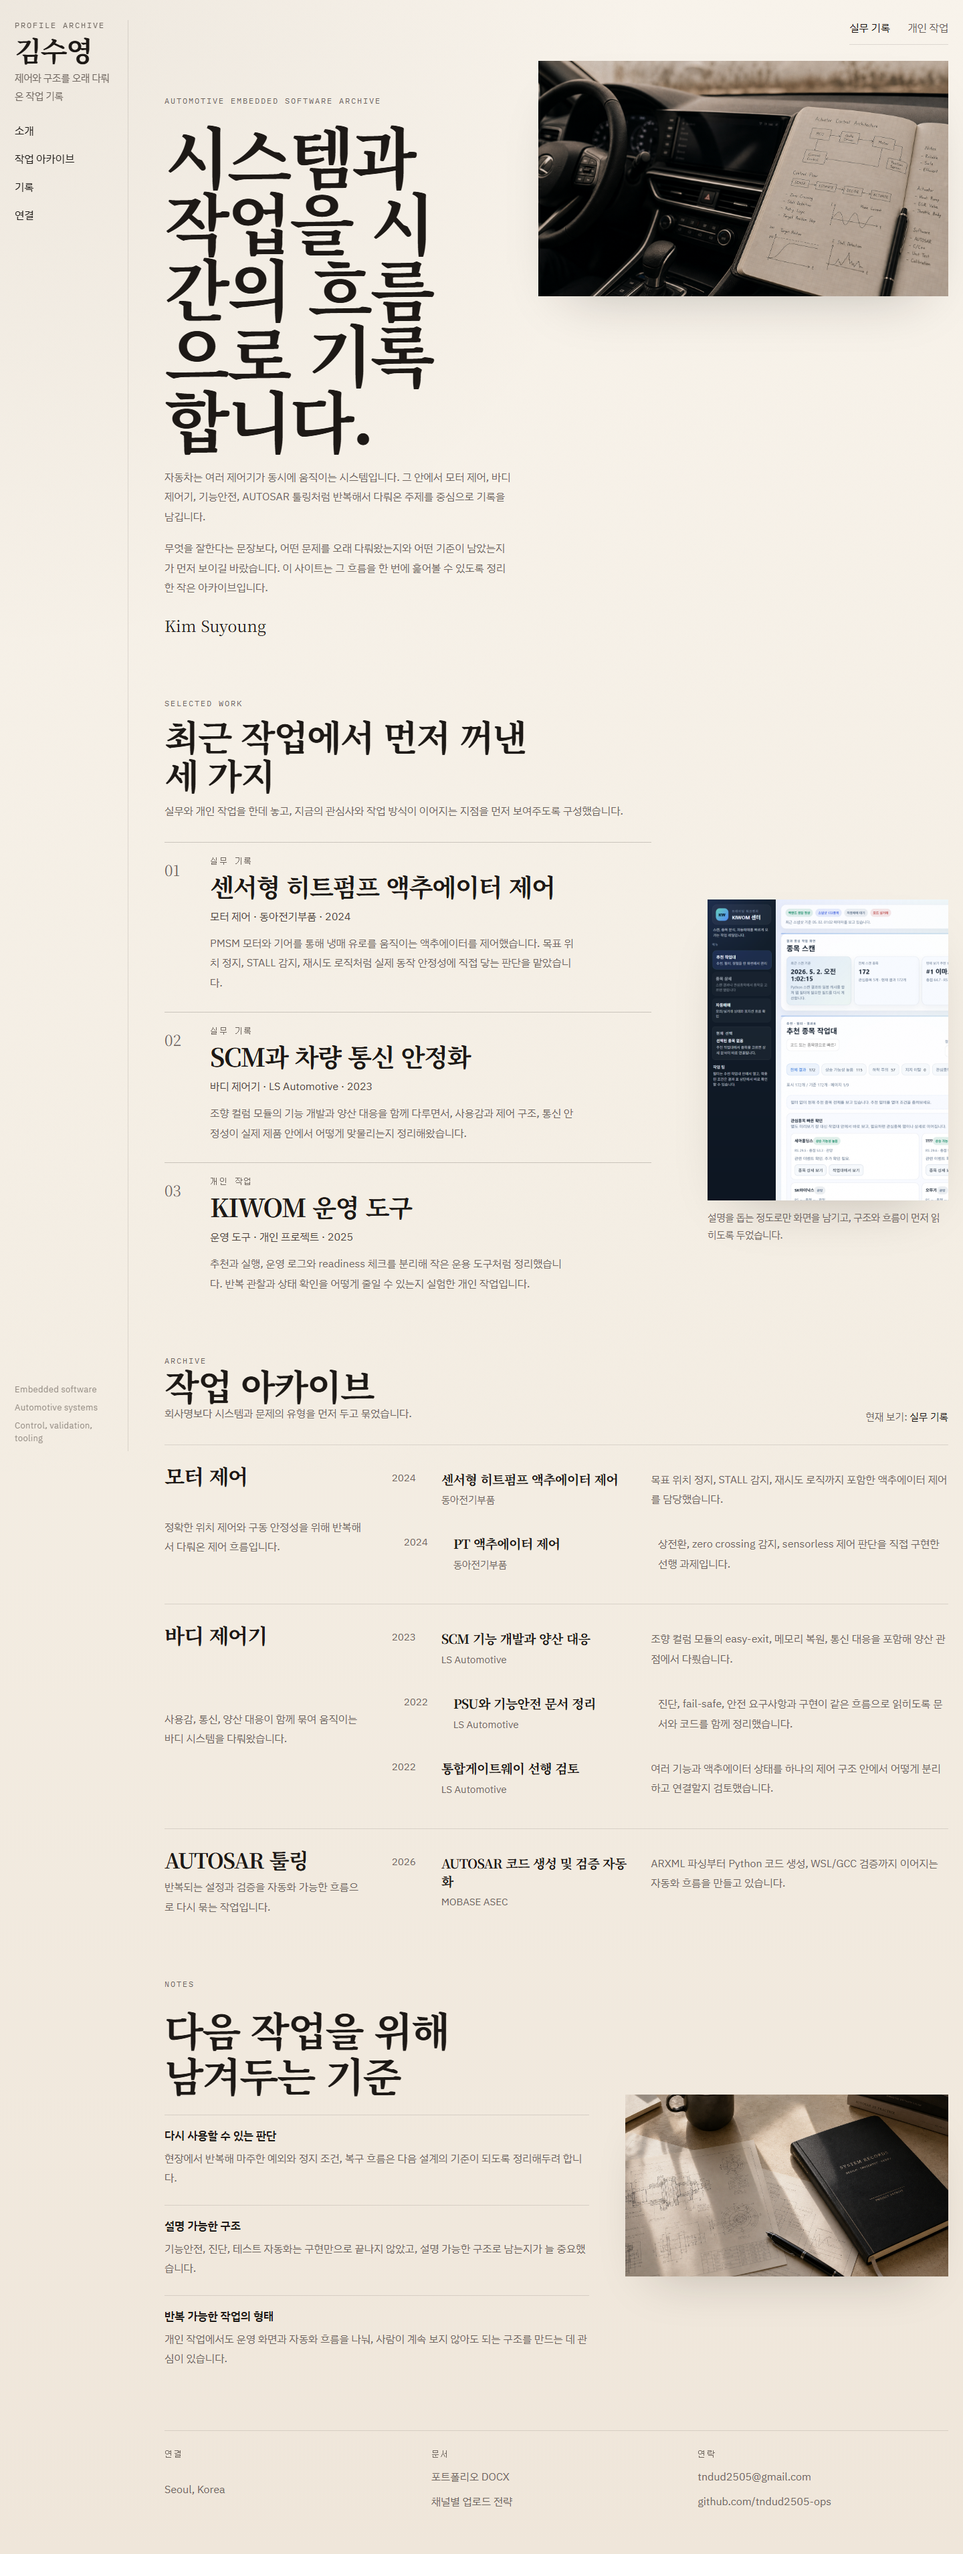
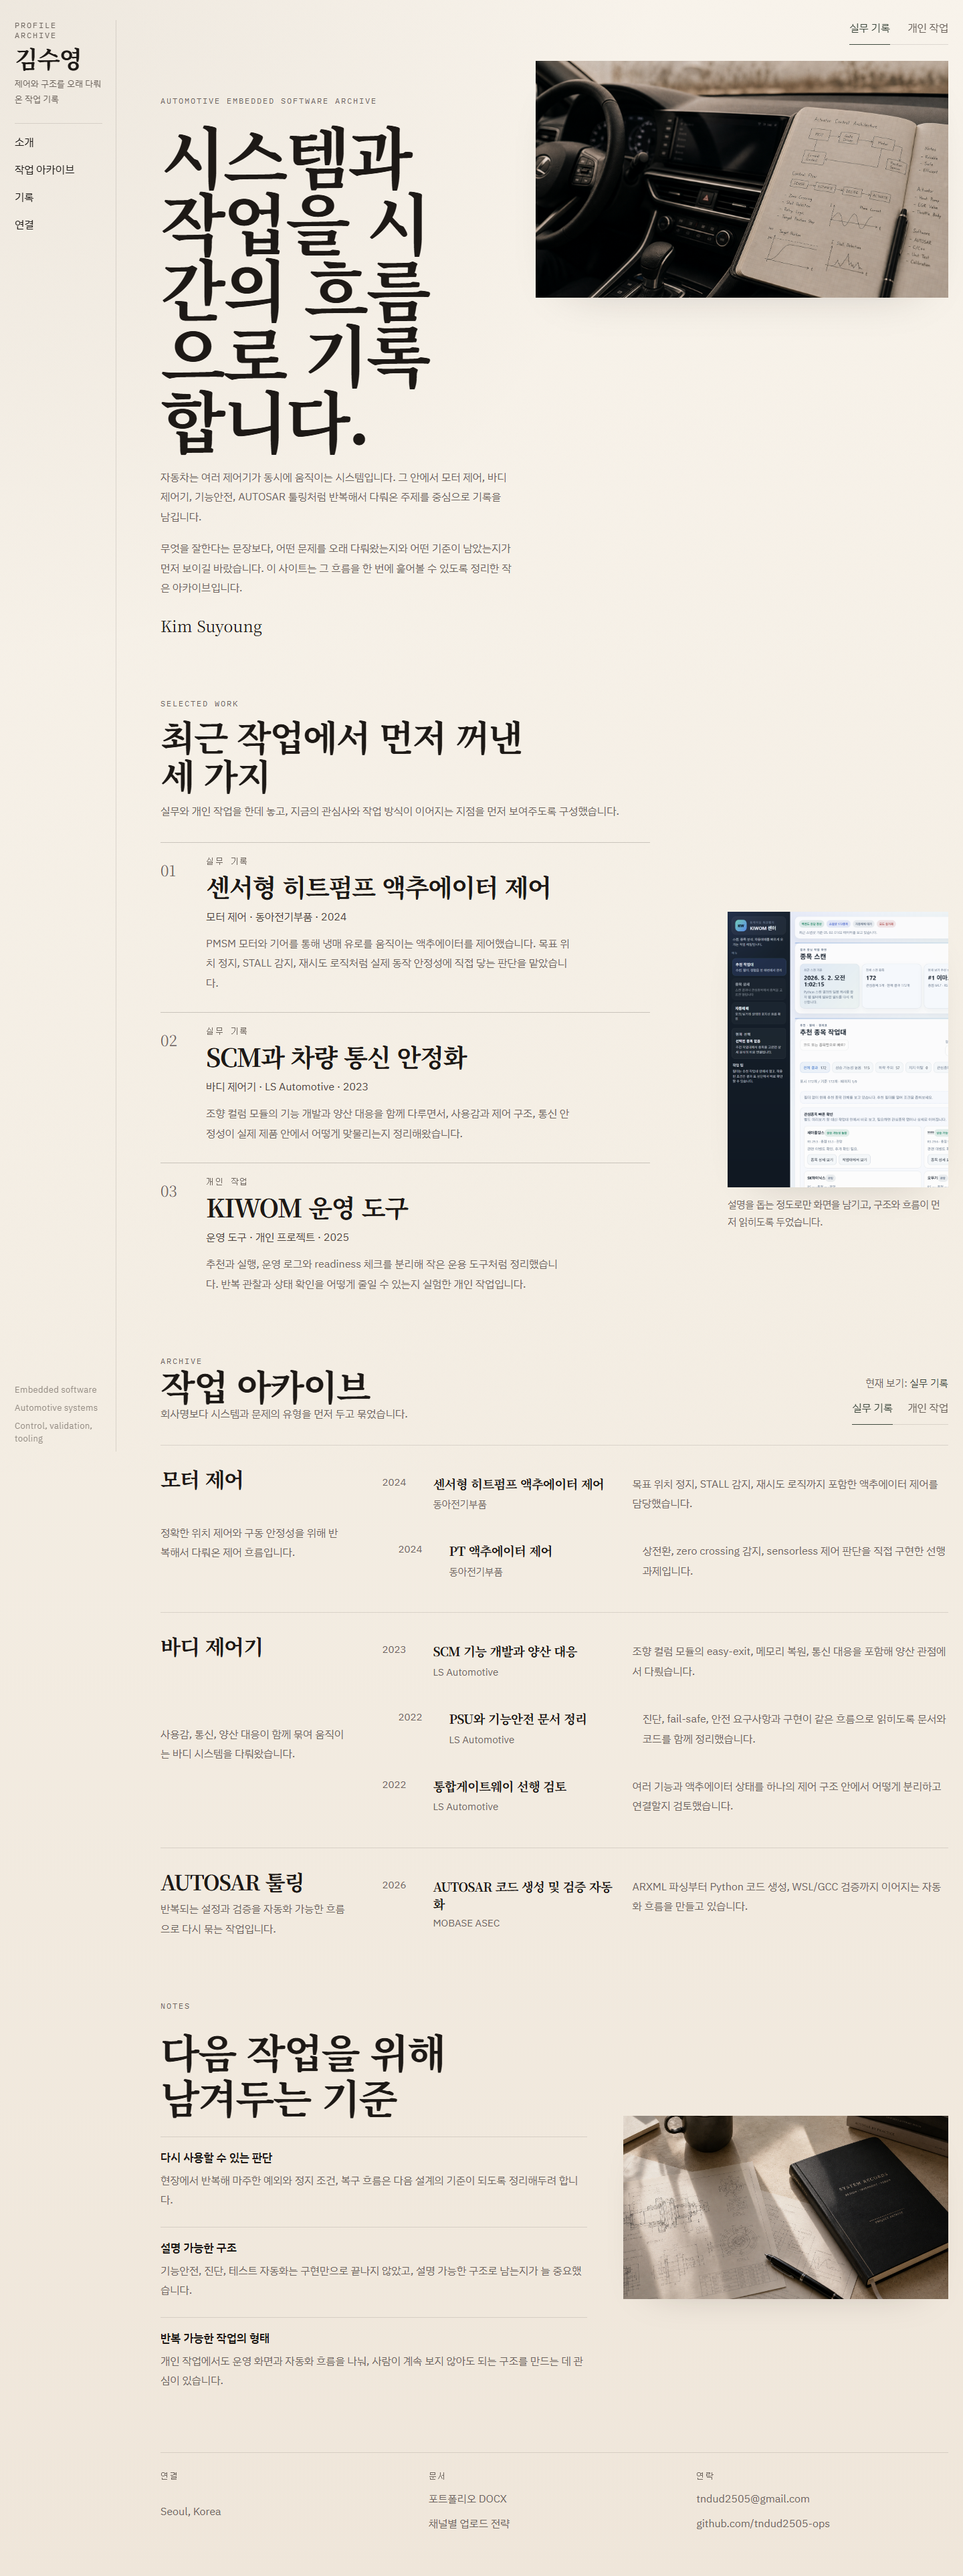
Refine profile archive rhythm

diff --git a/styles.css b/styles.css
@@ -6,7 +6,8 @@
   --muted: #6f665f;
   --line: rgba(29, 25, 22, 0.12);
   --line-strong: rgba(29, 25, 22, 0.2);
-  --accent: #2f2a26;
+  --accent: #3f4a3f;
+  --accent-soft: rgba(63, 74, 63, 0.18);
   --shadow: 0 36px 80px -44px rgba(28, 23, 18, 0.28);
 }
 
@@ -70,12 +71,12 @@ button {
 }
 
 .page-shell {
-  width: min(1480px, calc(100% - 44px));
+  width: min(1500px, calc(100% - 44px));
   margin: 0 auto;
   padding: 30px 0 56px;
   display: grid;
-  grid-template-columns: 170px minmax(0, 1fr);
-  gap: 54px;
+  grid-template-columns: 152px minmax(0, 1fr);
+  gap: 66px;
 }
 
 .page-rail {
@@ -116,7 +117,7 @@ button {
 }
 
 .rail-name {
-  font-size: 2.6rem;
+  font-size: 2.24rem;
   line-height: 0.94;
 }
 
@@ -140,13 +141,16 @@ button {
 }
 
 .rail-summary {
-  max-width: 11rem;
-  font-size: 0.92rem;
+  max-width: 9.4rem;
+  font-size: 0.84rem;
+  line-height: 1.72;
 }
 
 .rail-nav {
   display: grid;
-  gap: 14px;
+  gap: 13px;
+  padding-top: 14px;
+  border-top: 1px solid var(--line);
 }
 
 .rail-nav a {
@@ -156,7 +160,7 @@ button {
 }
 
 .rail-nav a:hover {
-  color: var(--text);
+  color: var(--accent);
   transform: translateX(4px);
 }
 
@@ -194,6 +198,7 @@ button {
 }
 
 .mode-tab {
+  position: relative;
   border: 0;
   padding: 0;
   color: var(--muted);
@@ -204,7 +209,24 @@ button {
 
 .mode-tab.is-active,
 .mode-tab:hover {
-  color: var(--text);
+  color: var(--accent);
+}
+
+.mode-tab::after {
+  content: "";
+  position: absolute;
+  right: 0;
+  bottom: -13px;
+  left: 0;
+  height: 1px;
+  transform: scaleX(0);
+  transform-origin: center;
+  background: var(--accent);
+  transition: transform 240ms ease;
+}
+
+.mode-tab.is-active::after {
+  transform: scaleX(1);
 }
 
 .intro-grid {
@@ -241,8 +263,13 @@ button {
 .intro-media {
   margin: 0;
   overflow: hidden;
-  box-shadow: var(--shadow);
+  box-shadow: 0 28px 70px -50px rgba(28, 23, 18, 0.28);
   background: #ddd5ca;
+}
+
+.intro-media img {
+  max-height: 370px;
+  object-fit: cover;
 }
 
 .section {
@@ -305,9 +332,9 @@ button {
 }
 
 .selected-visual {
-  width: min(100%, 360px);
+  width: min(100%, 330px);
   justify-self: end;
-  margin: 86px 0 -44px;
+  margin: 104px 0 -30px;
   display: grid;
   gap: 14px;
 }
@@ -316,7 +343,8 @@ button {
   aspect-ratio: 4 / 5;
   object-fit: cover;
   object-position: left top;
-  box-shadow: var(--shadow);
+  filter: saturate(0.86) contrast(0.98);
+  box-shadow: 0 24px 64px -48px rgba(28, 23, 18, 0.32);
 }
 
 .selected-visual figcaption {
@@ -330,6 +358,12 @@ button {
   align-items: end;
 }
 
+.archive-tools {
+  display: grid;
+  justify-items: end;
+  gap: 14px;
+}
+
 .archive-mode-note {
   margin: 0;
   color: var(--muted);
@@ -337,7 +371,14 @@ button {
 }
 
 .archive-mode-value {
-  color: var(--text);
+  color: var(--accent);
+}
+
+.archive-switch {
+  display: flex;
+  gap: 22px;
+  padding-bottom: 12px;
+  border-bottom: 1px solid var(--line);
 }
 
 .archive-panel {
@@ -351,9 +392,9 @@ button {
 
 .archive-group {
   display: grid;
-  grid-template-columns: minmax(220px, 0.36fr) minmax(0, 1fr);
-  gap: 40px;
-  padding-top: 28px;
+  grid-template-columns: minmax(220px, 0.33fr) minmax(0, 1fr);
+  gap: 52px;
+  padding-top: 32px;
   border-top: 1px solid var(--line);
 }
 
@@ -374,13 +415,13 @@ button {
 
 .archive-entry {
   display: grid;
-  grid-template-columns: 54px minmax(0, 0.66fr) minmax(0, 1fr);
-  gap: 20px;
-  padding: 10px 0;
+  grid-template-columns: 52px minmax(0, 0.58fr) minmax(0, 1fr);
+  gap: 24px;
+  padding: 12px 0;
 }
 
 .archive-entry:nth-child(even) {
-  padding-left: 18px;
+  padding-left: 24px;
 }
 
 .entry-year,
@@ -396,7 +437,7 @@ button {
 }
 
 .entry-main h4 {
-  font-size: 1.2rem;
+  font-size: 1.16rem;
   line-height: 1.4;
 }
 
@@ -441,7 +482,8 @@ button {
 }
 
 .notes-media img {
-  box-shadow: var(--shadow);
+  filter: saturate(0.9);
+  box-shadow: 0 24px 64px -48px rgba(28, 23, 18, 0.34);
 }
 
 .footer {

diff --git a/index.html b/index.html
@@ -147,10 +147,20 @@
               <h2>작업 아카이브</h2>
               <p class="section-note">회사명보다 시스템과 문제의 유형을 먼저 두고 묶었습니다.</p>
             </div>
-            <p class="archive-mode-note">
-              현재 보기:
-              <span class="archive-mode-value" data-mode-label>실무 기록</span>
-            </p>
+            <div class="archive-tools">
+              <p class="archive-mode-note">
+                현재 보기:
+                <span class="archive-mode-value" data-mode-label>실무 기록</span>
+              </p>
+              <div class="archive-switch" role="tablist" aria-label="작업 아카이브 보기">
+                <button class="mode-tab is-active" type="button" role="tab" aria-selected="true" data-mode="work">
+                  실무 기록
+                </button>
+                <button class="mode-tab" type="button" role="tab" aria-selected="false" data-mode="personal">
+                  개인 작업
+                </button>
+              </div>
+            </div>
           </div>
 
           <div class="archive-panel is-active" data-mode="work">
